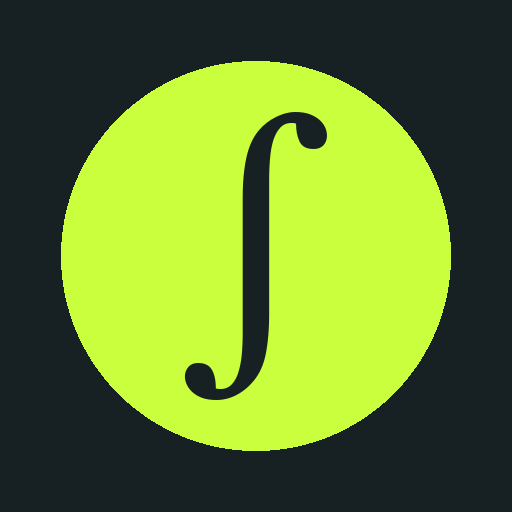
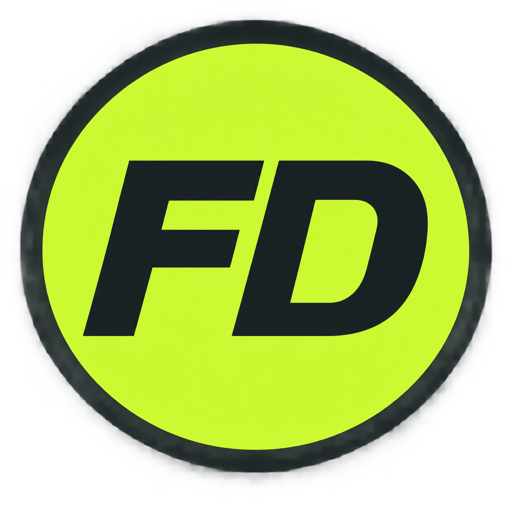
Complete Full Dive AP rebrand

diff --git a/src/index.html b/src/index.html
@@ -1,2 +1,2 @@
 <!doctype html>
-<html lang="en"><head><meta charset="utf-8"><title>Full Dive AP — Course Maxxing</title><base href="/"><meta name="viewport" content="width=device-width, initial-scale=1"><meta name="description" content="Farm XP, build focused reps, and grade max your AP courses."><meta name="theme-color" content="#172022"><link rel="manifest" href="manifest.webmanifest"><link rel="icon" type="image/png" href="icon-192.png"><meta property="og:title" content="Full Dive AP — Course Maxxing"><meta property="og:description" content="Roadmaps, trusted resources, and focused training sessions for grade maxxing AP courses."><meta property="og:image" content="https://calcpath-ap-calculus.les2.chatgpt.site/og.png"><meta name="twitter:card" content="summary_large_image"></head><body><app-root></app-root></body></html>
+<html lang="en"><head><meta charset="utf-8"><title>Full Dive AP — Course Maxxing</title><base href="/"><meta name="viewport" content="width=device-width, initial-scale=1"><meta name="description" content="Farm XP, build focused reps, and grade max your AP courses."><meta name="theme-color" content="#172022"><link rel="manifest" href="manifest.webmanifest"><link rel="icon" type="image/png" href="icon-192.png"><meta property="og:title" content="Full Dive AP — Course Maxxing"><meta property="og:description" content="Roadmaps, trusted resources, and focused training sessions for grade maxxing AP courses."><meta property="og:image" content="https://fulldiveap.les2.chatgpt.site/og.png"><meta name="twitter:card" content="summary_large_image"></head><body><app-root></app-root></body></html>

diff --git a/src/app/practice-catalog.service.ts b/src/app/practice-catalog.service.ts
@@ -52,13 +52,13 @@ export class PracticeCatalogService {
   }
 
   async loadSessions(courseId: string): Promise<StudySession[]> {
-    const legacy = this.readLegacySessions(courseId);
+    const stored = this.readStoredSessions(courseId);
     try {
       const sessions = await fullDiveDatabase.studySessions.where('courseId').equals(courseId).toArray();
       if (sessions.length) return sessions;
-      if (legacy.length) { await this.saveSessions(courseId, legacy); }
-      return legacy;
-    } catch { return legacy; }
+      if (stored.length) { await this.saveSessions(courseId, stored); }
+      return stored;
+    } catch { return stored; }
   }
 
   async saveSessions(courseId: string, sessions: StudySession[]): Promise<void> {
@@ -116,12 +116,10 @@ export class PracticeCatalogService {
 
   private sessionStorageKey(courseId: string) { return `full-dive-ap:${courseId}:study-sessions`; }
 
-  private readLegacySessions(courseId: string): StudySession[] {
+  private readStoredSessions(courseId: string): StudySession[] {
     try {
       const current = localStorage.getItem(this.sessionStorageKey(courseId));
-      const priorBrand = localStorage.getItem(`studypath:${courseId}:study-sessions`);
-      const legacy = courseId === 'ap-calculus' ? localStorage.getItem('calcpath-study-sessions-v2') : null;
-      const value = JSON.parse(current ?? priorBrand ?? legacy ?? '[]');
+      const value = JSON.parse(current ?? '[]');
       return Array.isArray(value) ? value.map((session) => ({ ...session, courseId })) : [];
     } catch { return []; }
   }

diff --git a/src/app/roadmap.page.ts b/src/app/roadmap.page.ts
@@ -60,7 +60,7 @@ export class RoadmapPage {
   setUnit(unit: number) { this.navigate({ unit: this.expanded() === unit ? null : unit }); }
   toggleTopic(id: string) { this.completed.update((items) => toggleCompleted(items, id)); localStorage.setItem(this.progressKey(), JSON.stringify(this.completed())); }
   private progressKey() { return `full-dive-ap:${this.courseId}:progress`; }
-  private readProgress(): string[] { try { const current = localStorage.getItem(this.progressKey()); const priorBrand = localStorage.getItem(`studypath:${this.courseId}:progress`); const legacy = this.courseId === 'ap-calculus' ? localStorage.getItem('calcpath-progress') : null; return JSON.parse(current ?? priorBrand ?? legacy ?? '[]') as string[]; } catch { return []; } }
+  private readProgress(): string[] { try { return JSON.parse(localStorage.getItem(this.progressKey()) ?? '[]') as string[]; } catch { return []; } }
   private navigate(queryParams: Record<string, string | number | null>) {
     const urlTree = this.router.createUrlTree([], { relativeTo: this.route, queryParams, queryParamsHandling: 'merge' });
     this.location.replaceState(this.router.serializeUrl(urlTree));

diff --git a/src/app/practice-catalog.database.ts b/src/app/practice-catalog.database.ts
@@ -5,17 +5,14 @@ export type PracticeCatalogMeta = Omit<PracticeCatalog, 'sources' | 'questions'>
 export type CachedPracticeSource = PracticeSource & { cacheKey: string; courseId: string };
 export type CachedPracticeQuestion = StoredPracticeQuestion & { cacheKey: string; courseId: string };
 
-/**
- * Device-local Full Dive AP data. The legacy `calcpath` database name is retained
- * so existing AP Calculus training sessions survive the multi-course migration.
- */
+/** Device-local Full Dive AP data, namespaced by course. */
 export class FullDiveDatabase extends Dexie {
   readonly catalogMeta!: Table<PracticeCatalogMeta, string>;
   readonly practiceSources!: Table<CachedPracticeSource, string>;
   readonly practiceQuestions!: Table<CachedPracticeQuestion, string>;
   readonly studySessions!: Table<StudySession, string>;
 
-  constructor(databaseName = 'calcpath') {
+  constructor(databaseName = 'full-dive-ap') {
     super(databaseName);
     this.version(1).stores({
       'catalog-meta': '&key',

diff --git a/src/app/course-data.service.ts b/src/app/course-data.service.ts
@@ -64,7 +64,7 @@ const DEFAULT_APP: AppConfig = {
   $schema: '../schemas/app.schema.json',
   schemaVersion: 1,
   brand: { name: 'Full Dive AP', shortName: 'Full Dive', mark: 'FD', tagline: 'Farm XP. Max the course.' },
-  repository: { label: 'GitHub', url: 'https://github.com/les2/calcpath-ap-calculus' },
+  repository: { label: 'GitHub', url: 'https://github.com/les2/full-dive-ap' },
   support: { enabled: true, label: 'Leave a tip', icon: '☕', url: 'https://ko-fi.com/5reason' },
   catalogPage: { eyebrow: 'YOUR AP LOADOUT', heading: 'Pick your course.', emphasis: 'Start farming XP.', description: 'Roadmaps, trusted resources, reference guides, and focused training sessions.', sectionEyebrow: 'COURSE SELECT', sectionHeading: 'Ready to max', sectionDescription: 'Choose a course, lock in, and keep leveling.', openLabel: 'Grade max', comingSoonLabel: 'Next drop' },
   footer: { message: 'Built for course maxxing. Your progress stays on your device.' }

diff --git a/src/app/practice-catalog.database.spec.ts b/src/app/practice-catalog.database.spec.ts
@@ -30,7 +30,7 @@ afterEach(async () => {
 
 describe('Full Dive AP Dexie database', () => {
   it('opens the existing native IndexedDB schema without losing a study session', async () => {
-    const name = `calcpath-test-${crypto.randomUUID()}`;
+    const name = `full-dive-ap-test-${crypto.randomUUID()}`;
     const session: Omit<StudySession, 'courseId'> = {
       id: 'session-1', name: 'Unit 1 test', topicIds: ['1.1'], questionIds: ['q1'], currentIndex: 0,
       totalSeconds: 90, results: {}, revealed: [], status: 'open', createdAt: '2026-08-23T00:00:00Z', updatedAt: '2026-08-23T00:01:30Z'

diff --git a/src/app/app.ts b/src/app/app.ts
@@ -58,7 +58,7 @@ interface BuildInfo {
   `
 })
 export class App {
-  readonly dark = signal((localStorage.getItem('full-dive-ap-theme') ?? localStorage.getItem('studypath-theme') ?? localStorage.getItem('calcpath-theme')) === 'dark');
+  readonly dark = signal(localStorage.getItem('full-dive-ap-theme') === 'dark');
   readonly updateReady = signal(false);
   readonly updateTitle = signal('A fresh version is ready.');
   readonly buildInfo = signal<BuildInfo | null>(null);

diff --git a/README.md b/README.md
@@ -1,12 +1,12 @@
 # Full Dive AP — offline-ready course guides
 
-[![Validate](https://github.com/les2/calcpath-ap-calculus/actions/workflows/ci.yml/badge.svg)](https://github.com/les2/calcpath-ap-calculus/actions/workflows/ci.yml)
-[![Deploy GitHub Pages](https://github.com/les2/calcpath-ap-calculus/actions/workflows/deploy-pages.yml/badge.svg)](https://github.com/les2/calcpath-ap-calculus/actions/workflows/deploy-pages.yml)
+[![Validate](https://github.com/les2/full-dive-ap/actions/workflows/ci.yml/badge.svg)](https://github.com/les2/full-dive-ap/actions/workflows/ci.yml)
+[![Deploy GitHub Pages](https://github.com/les2/full-dive-ap/actions/workflows/deploy-pages.yml/badge.svg)](https://github.com/les2/full-dive-ap/actions/workflows/deploy-pages.yml)
 [![Support on Ko-fi](https://ko-fi.com/img/githubbutton_sm.svg)](https://ko-fi.com/5reason)
 
 Full Dive AP is a reusable framework for complete course roadmaps, trusted resources, printable references, and private training sessions. One data-driven Angular PWA can host many courses without duplicating the application. AP Calculus AB + BC is the first course package.
 
-The existing repository and site URLs intentionally keep the CalcPath name for now. The currently published AP Calculus release is at [calcpath-ap-calculus.les2.chatgpt.site](https://calcpath-ap-calculus.les2.chatgpt.site/roadmap), and the source remains at [github.com/les2/calcpath-ap-calculus](https://github.com/les2/calcpath-ap-calculus). This Full Dive AP generalization should be tested locally before it replaces that release.
+Use Full Dive AP at [FullDiveAP.les2.chatgpt.site](https://fulldiveap.les2.chatgpt.site/courses), or explore and fork the public source at [github.com/les2/full-dive-ap](https://github.com/les2/full-dive-ap).
 
 ## What students get
 
@@ -58,7 +58,7 @@ Each available course gets the same top-level structure:
 - `/courses/:courseId/reference` — printable formula/reference guide
 - `/courses/:courseId/training` — private, persistent training sessions
 
-Course IDs also namespace roadmap progress, IndexedDB catalogs, and study sessions. The legacy IndexedDB database name is retained solely so existing AP Calculus sessions can migrate safely.
+Course IDs also namespace roadmap progress, IndexedDB catalogs, and training sessions.
 
 ## Add another course
 
@@ -125,7 +125,7 @@ The header's optional Ko-fi support control is an ordinary themed Angular link r
 ## Beginner setup: make your own
 
 1. Create a free [GitHub account](https://github.com/signup).
-2. Open the [Full Dive AP repository](https://github.com/les2/calcpath-ap-calculus) and choose **Fork**.
+2. Open the [Full Dive AP repository](https://github.com/les2/full-dive-ap) and choose **Fork**.
 3. Install [GitHub Desktop](https://desktop.github.com/download/), sign in, and clone your fork.
 4. Install the [ChatGPT desktop app](https://chatgpt.com/download/) and open the cloned folder in Codex.
 5. Ask ChatGPT to read `AGENTS.md`, `docs/course-authoring.md`, and the `add-study-course` skill before creating your subject package.

diff --git a/docs/data-architecture.md b/docs/data-architecture.md
@@ -30,7 +30,7 @@ public/schemas/                      # JSON Schema 2020-12 contracts
 5. The service worker caches `/data/**` and `/schemas/**` with the application shell for offline use.
 6. Practice data is normalized into IndexedDB through Dexie. Study runs and roadmap progress are namespaced by course ID and never uploaded.
 
-The IndexedDB database intentionally keeps its historical `calcpath` name so an existing AP Calculus install can migrate its local study sessions. New browser keys use `full-dive-ap:<course-id>:`; reads also recognize the earlier `studypath:` keys. New records carry `courseId`, and catalog record keys include the course ID to prevent collisions between packages.
+The IndexedDB database is named `full-dive-ap`. Browser keys use `full-dive-ap:<course-id>:`, records carry `courseId`, and catalog record keys include the course ID to prevent collisions between packages.
 
 ## Routes
 
